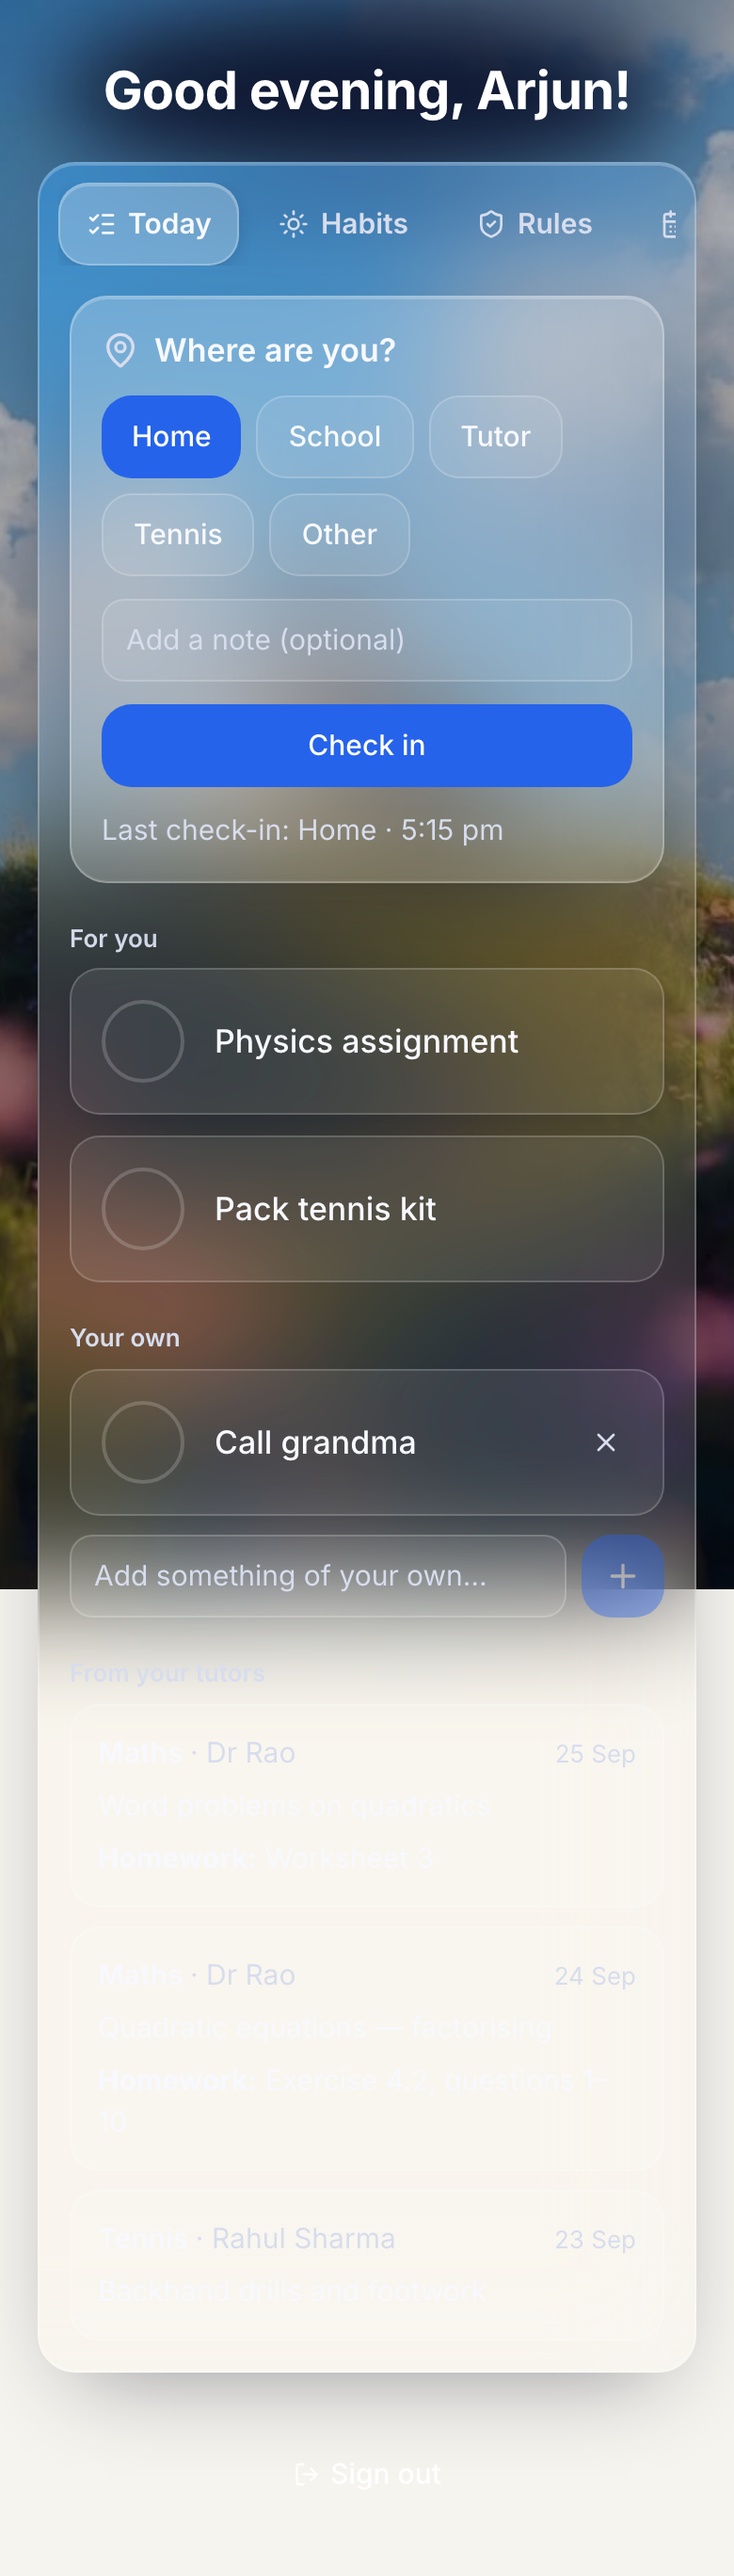
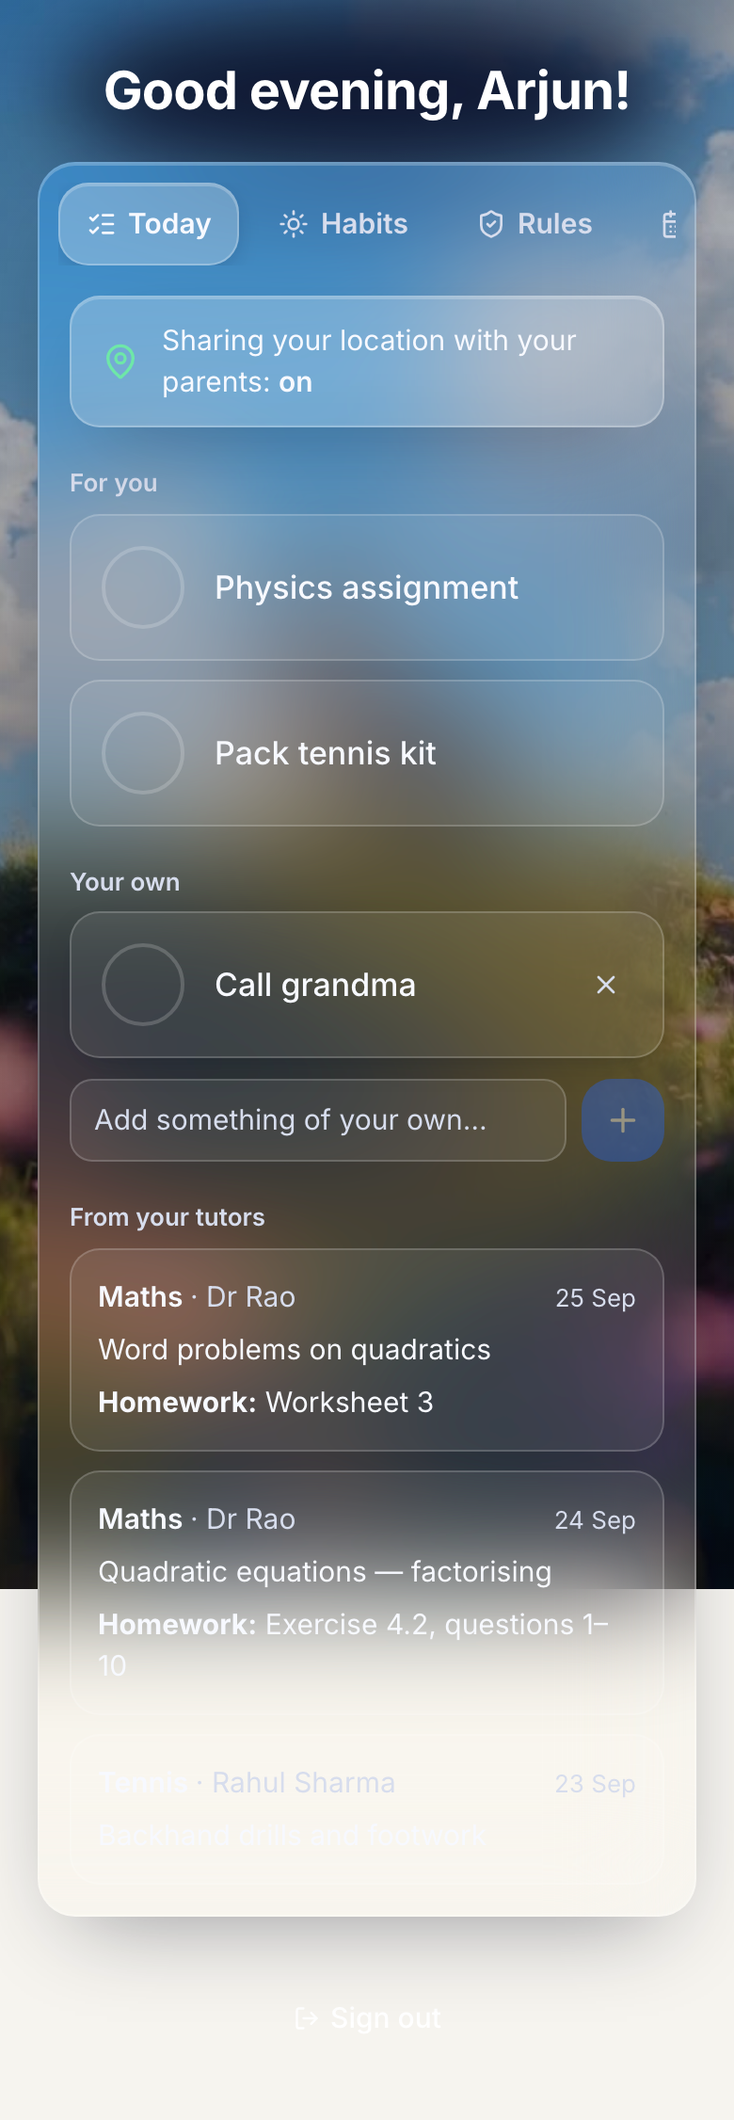
While his phone shares on its own, the son's Today no longer asks him to check in
One line, "Sharing your location with your parents: on", takes the place of
the Check in card whenever phone sharing is on; the card stays as the fallback
for when it is off. Owner's developer, 2026-09-25: a manual check-in is noise
once the position arrives continuously.

diff --git a/scripts/check-circle-2.ts b/scripts/check-circle-2.ts
@@ -213,7 +213,6 @@ async function main() {
   const lastSeenWords = lastSeen ? (lastSeen.source === "CHECKIN" && lastSeen.place ? lastSeen.place : "on the map") : "";
   const lastSeenRe = new RegExp(`^Last seen: ${lastSeenWords} · `);
   const lastCheckin = points.find((p) => p.source === "CHECKIN") ?? null;
-  const lastCheckinRe = new RegExp(`^Last check-in: ${lastCheckin?.place ?? ""} · `);
   info(`last seen today: ${lastSeenWords || "nothing"} (${lastSeen?.source ?? "-"}); last check-in: ${lastCheckin?.place ?? "none"}`);
   const phonePoint = phone.find((p) => p.source === "OVERLAND");
   record("a phone point keeps its battery and accuracy", phonePoint?.battery === 61 && phonePoint?.accuracy === 25, `battery ${phonePoint?.battery}, accuracy ${phonePoint?.accuracy}`);
@@ -332,7 +331,8 @@ async function main() {
   const arjunTabs = await arjunPage.getByRole("tablist", { name: "Your day" }).getByRole("tab").allInnerTexts();
   info(`${ARJUN.name}'s tabs: ${arjunTabs.join(" · ")}`);
   record(`${ARJUN.name} is offered ${arjunTabsWanted.replace(/\|/g, ", ")} — Calendar and Map among them`, arjunTabs.join("|") === arjunTabsWanted, arjunTabs.join(", "));
-  record("his Today asks where he is and remembers his last check-in", (await seen(arjunPage, "Where are you?")) && (await seen(arjunPage, lastCheckinRe)) && (await seen(arjunPage, "Call grandma")), `wanted "Last check-in: ${lastCheckin?.place} · …"`);
+  // With his phone sharing on its own, the Check in card gives way to one line (2026-09-25).
+  record("his Today says his phone is sharing, and keeps his own extra", (await seen(arjunPage, "Sharing your location with your parents: on")) && !(await seen(arjunPage, "Where are you?")) && (await seen(arjunPage, "Call grandma")));
   await photograph(arjunPage, "arjun-1-today.png", `${ARJUN.name}'s Today`, SCOPE, true);
 
   await openTab(arjunPage, "Calendar");

diff --git a/components/routine/person-screen.tsx b/components/routine/person-screen.tsx
@@ -246,8 +246,19 @@ export function PersonScreen() {
                     </div>
                   ) : null}
 
-                  {/* Where he is comes first: one tap, before the day's list. */}
-                  <CheckInCard lastSeen={lastCheckIn} />
+                  {/* While his phone shares on its own, asking him to tap is noise: one line says
+                      sharing is on. The Check in card is the fallback for when it is off (owner's
+                      developer, 2026-09-25). */}
+                  {location.data?.sharing.on ? (
+                    <div className="pk-glass mb-4 flex items-center gap-3 rounded-card px-4 py-3">
+                      <MapPin className="h-5 w-5 shrink-0 text-ok-ink" strokeWidth={2} aria-hidden />
+                      <p className="pk-fg min-w-0 text-sm">
+                        Sharing your location with your parents: <span className="font-semibold">on</span>
+                      </p>
+                    </div>
+                  ) : location.data ? (
+                    <CheckInCard lastSeen={lastCheckIn} />
+                  ) : null}
 
                   {forYou.length > 0 ? (
                     <div>
